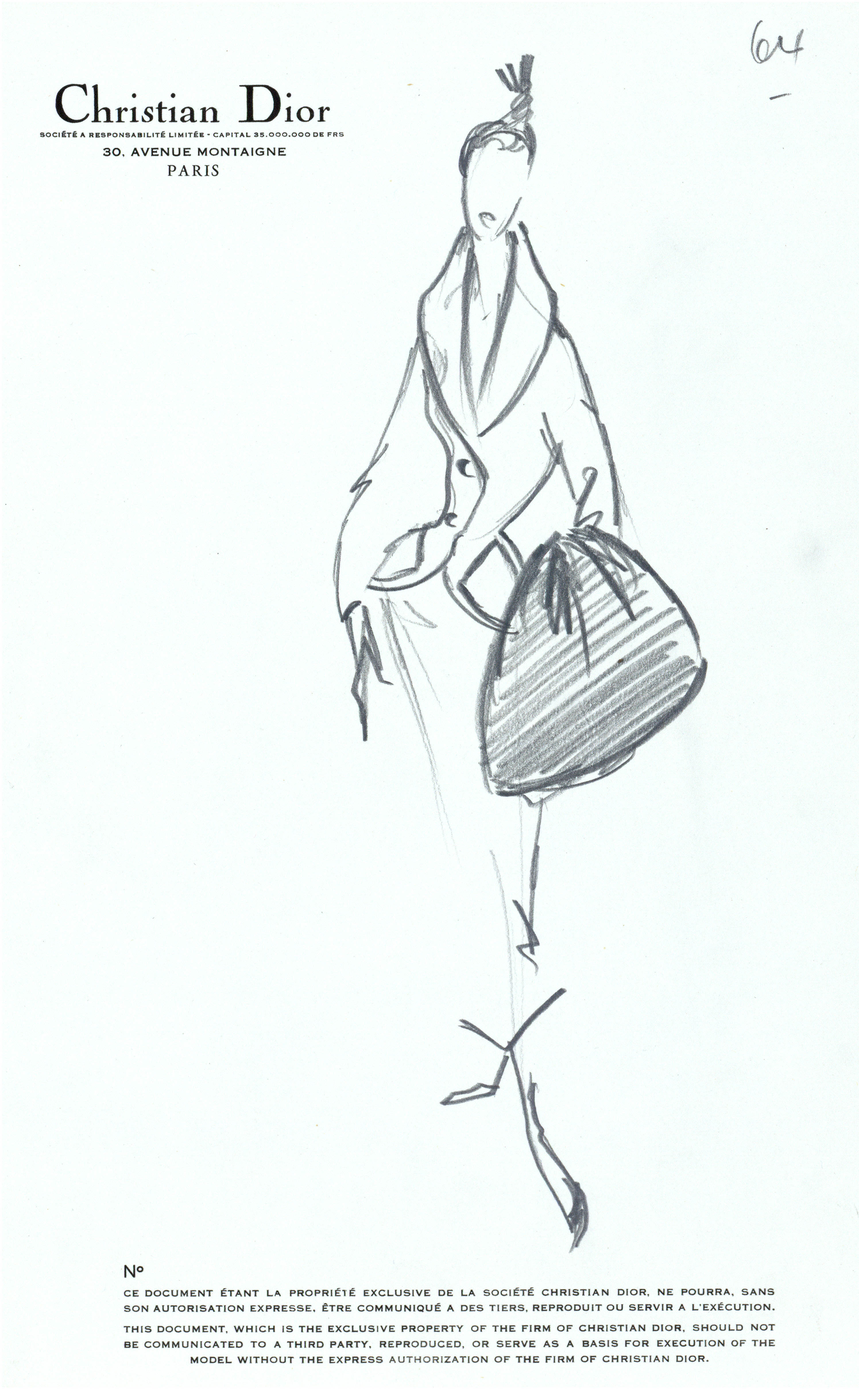
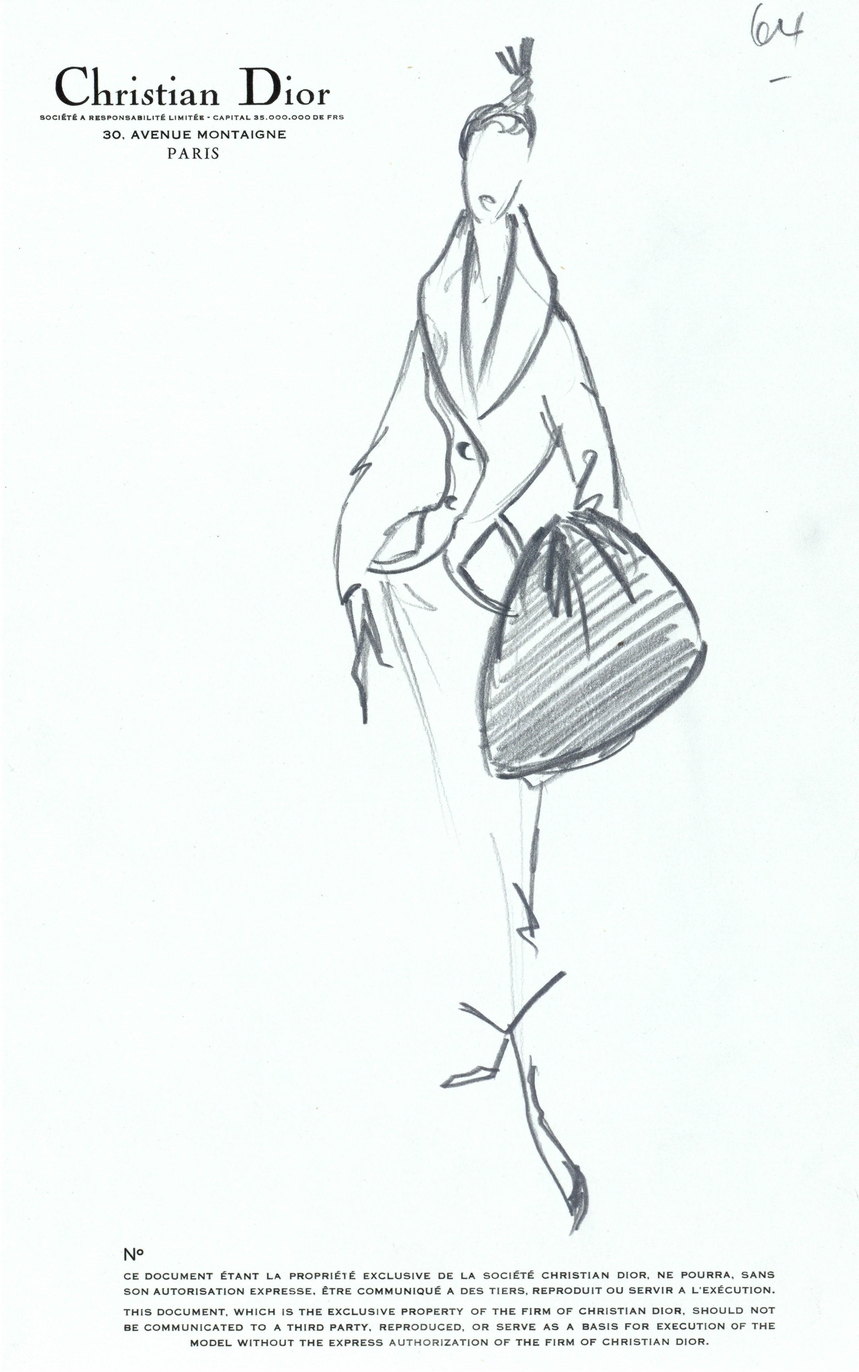
3.1 revision completed

diff --git a/3 Day/3.1/slider1.html b/3 Day/3.1/slider1.html
@@ -66,8 +66,8 @@
 								</div>
 							</div>
 						</div>
-						<div class="col span_3_of_5 top bottom panzoom">
-							<img src="img/1/1.jpg" width="815.22" height="1024" />
+						<div class="col span_3_of_5 top bottom panzoom" style="background-color:#f8fefc;">
+							<img src="img/1/1.jpg" width="815.22" height="1024" style="max-width: 87%;margin:0 auto;"/>
 						</div>
 					</div>
 				
@@ -93,7 +93,7 @@
 							<div class="inner">
 								<div class="caption">
 									<h3>Chart</h3>
-									<p style="font-size:0.9em;">Each chart recorded the designs in a collection by type, who made it, for whom, and with textile swatches. This ensured the ateliers’ work was evenly distributed and that the mannequins had time to change during daily presentations.</p>
+									<p style="font-size:0.75em;">Each chart recorded the designs in a collection by type, who made it, for whom, and with textile swatches. This ensured the ateliers’ work was evenly distributed and that the mannequins had time to change during daily presentations.</p>
 									<div class="tombstone">Dior Héritage Collection, Paris</div>
 									<img src="img/1/2c.jpg" width="460" height="123" />
 									<img src="img/1/2.jpg" width="125" height="372" />

diff --git a/3 Day/3.1/slider1-fr.html b/3 Day/3.1/slider1-fr.html
@@ -66,8 +66,8 @@
 								</div>
 							</div>
 						</div>
-						<div class="col span_3_of_5 top bottom panzoom">
-							<img src="img/1/1.jpg" width="815.22" height="1024" />
+						<div class="col span_3_of_5 top bottom panzoom" style="background-color:#f8fefc;">
+							<img src="img/1/1.jpg" width="815.22" height="1024" style="max-width: 87%;margin:0 auto;"/>
 						</div>
 					</div>
 				

diff --git a/3 Day/3.1/css/style.css b/3 Day/3.1/css/style.css
@@ -659,7 +659,7 @@ html body .ui-group-theme-a a:visited {
 }
 
 .full-page .col.light-grey .inner {
-	margin-top: 150px;
+	margin-top: 80px;
 }
 
 .full-page.chart .col.light-grey img {
